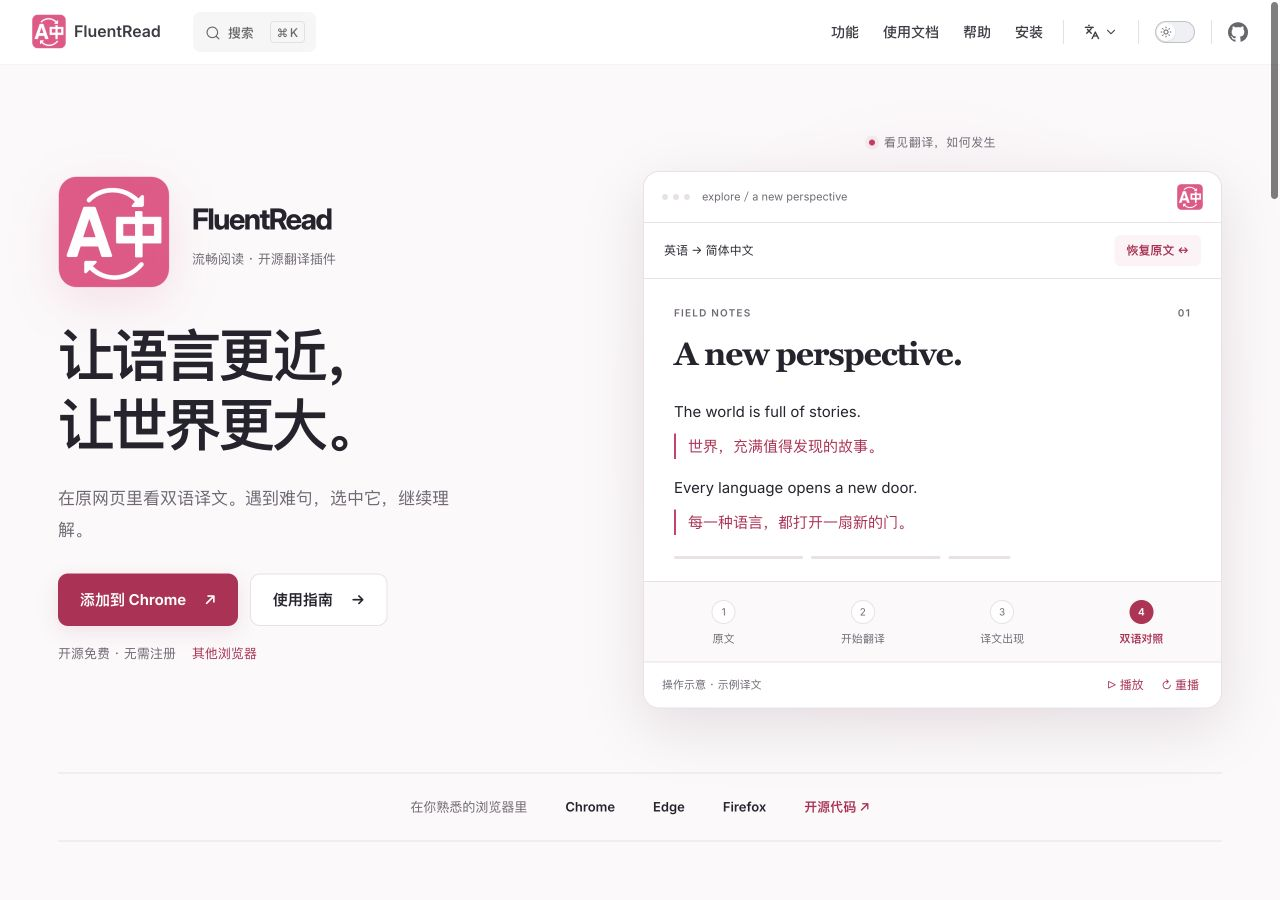
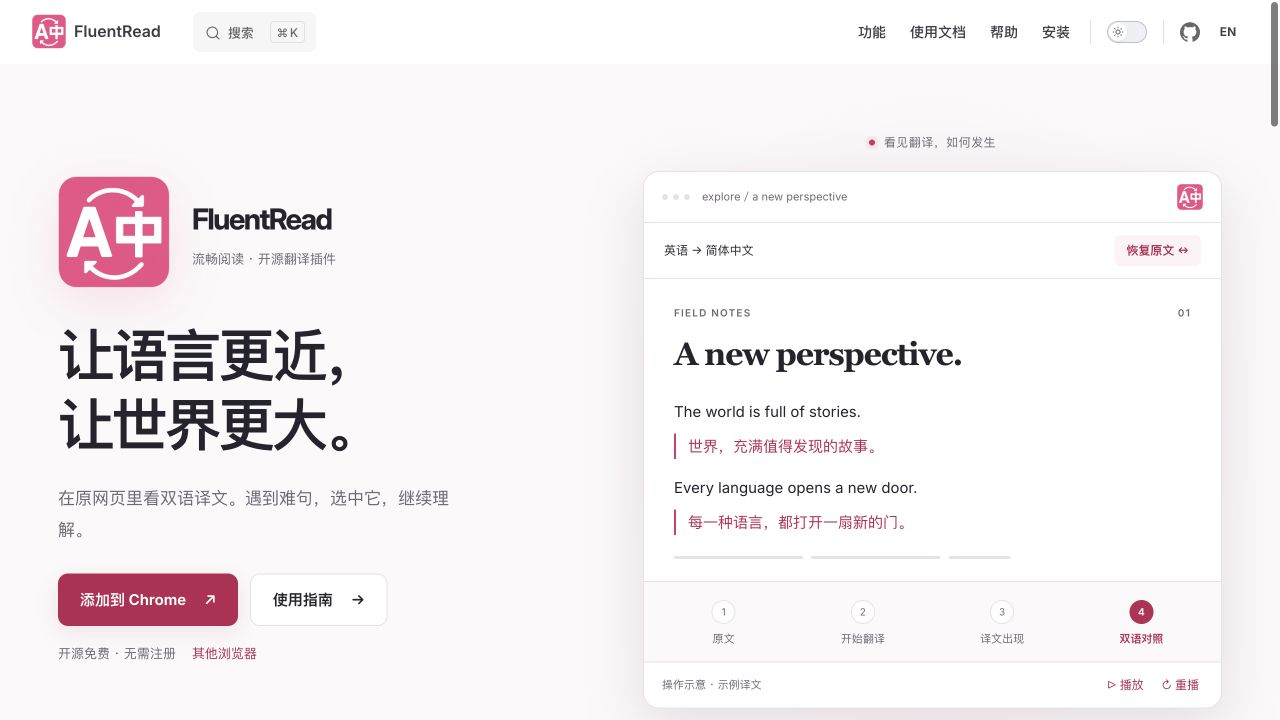
Verify responsive guides and stabilize language deep links

diff --git a/docs/.vitepress/theme/GuideLayout.vue b/docs/.vitepress/theme/GuideLayout.vue
@@ -1,8 +1,19 @@
 <script setup lang="ts">
 import DefaultTheme from 'vitepress/theme'
-import { useRoute } from 'vitepress'
-import { nextTick, onBeforeUnmount, onMounted, watch } from 'vue'
+import { useData, useRoute, withBase } from 'vitepress'
+import { computed, nextTick, onBeforeUnmount, onMounted, watch } from 'vue'
 const route = useRoute()
+const { lang, page } = useData()
+const english = computed(() => lang.value.startsWith('en'))
+// Headings differ between languages. Keep the corresponding page, without carrying its hash.
+const languageLink = computed(() => {
+  if (page.value.isNotFound) return withBase(english.value ? '/' : '/en/')
+  const path = page.value.relativePath
+    .replace(/^en\//, '')
+    .replace(/(^|\/)index\.md$/, '$1')
+    .replace(/\.md$/, '')
+  return withBase((english.value ? '/' : '/en/') + path)
+})
 let revision = 0
 async function revealAnchor() {
   const current = ++revision
@@ -40,4 +51,17 @@ onBeforeUnmount(() => {
   window.removeEventListener('hashchange', revealAnchor)
 })
 </script>
-<template><DefaultTheme.Layout /></template>
+<template>
+  <DefaultTheme.Layout>
+    <template #nav-bar-content-after>
+      <a
+        class="bv-language"
+        :href="languageLink"
+        :aria-label="english ? '切换到简体中文' : 'Switch to English'"
+        :hreflang="english ? 'zh-CN' : 'en'"
+      >
+        {{ english ? '中文' : 'EN' }}
+      </a>
+    </template>
+  </DefaultTheme.Layout>
+</template>

diff --git a/docs/.vitepress/config.ts b/docs/.vitepress/config.ts
@@ -172,14 +172,15 @@ export default defineConfig({
     ['link', { rel: 'icon', href: '/brand-icon.webp' }],
   ],
   locales: {
+    // GuideLayout provides a stable page-level switch; translated headings have different hashes.
     root: {
-      label: '简体中文',
+      label: '',
       lang: 'zh-CN',
       title: 'FluentRead',
       themeConfig: theme(),
     },
     en: {
-      label: 'English',
+      label: '',
       lang: 'en',
       title: 'FluentRead',
       description: `${brandTaglines['en-US']} An open-source browser extension for bilingual translation.`,

diff --git a/docs/.vitepress/theme/custom.css b/docs/.vitepress/theme/custom.css
@@ -35,6 +35,25 @@
   width: 34px;
   height: 34px;
 }
+.bv-language {
+  display: inline-flex;
+  align-items: center;
+  justify-content: center;
+  min-width: 40px;
+  min-height: 40px;
+  margin-left: 8px;
+  font-size: 12px;
+  font-weight: 650;
+  color: var(--vp-c-text-1);
+  border-radius: 6px;
+}
+.bv-language:hover {
+  color: var(--vp-c-brand-1);
+  background: var(--vp-c-brand-soft);
+}
+.bv-language:focus-visible {
+  outline: 2px solid var(--vp-c-brand-1);
+}
 .bv-site {
   color: var(--fr-ink);
   line-height: 1.75;

diff --git a/docs/reports/brand-visual-docs-20261003/verification.md b/docs/reports/brand-visual-docs-20261003/verification.md
@@ -1,0 +1,21 @@
+# 官网与视觉指南验收
+
+先完成[规划](../../maintainers/brand-visual-docs-plan-20261003.md)，再实施自定义首页、可操作的 HTML/CSS 图解与文档折叠。保留 VitePress 的静态生成、双语路由和本地搜索。正式 A/中品牌图标使用无损 WebP，256px、43,164 字节；可见像素与品牌源文件一致。
+
+## 已验证
+
+- `pnpm docs:typecheck`、`pnpm docs:build`、`pnpm docs:check` 通过。静态检查覆盖 75 个页面、3,778 个内部链接、714 个链接锚点、112 个图片引用。增加正式图标、首页示例、文档任务入口、默认折叠、提示词占位符与对应页面语言切换的检查。
+- 以 `08b9498c8057c4d3ee89651630b27585946bb4b1` 为集成基线，60 篇已调整指南的 468 个原有 ID 全部保留，见 `legacy-anchors.json`。
+- 后台 Codex 浏览器检查中文主要任务页、英文入口与主要指南，在 320、390、768、1280px 下检查布局；最终首页和文档入口均无横向溢出。详见 `browser-summary.json`，其中保留发现问题与修复后的记录。
+- 翻译示例自动切换；手动步骤会暂停；播放与暂停按钮可用。图片、圈选图解能展示对应结果；句法片段支持点击和方向键。
+- 手机目录、本地搜索、深浅主题可用。高级内容初始关闭；直接访问折叠区旧链接会展开，并为固定顶栏保留留白。
+- 直接加载章节链接后，中英文切换到同一篇指南，不携带另一种语言的章节名。全新验证页没有控制台警告或错误。
+- 保留最新主分支的文档工作区、下载和句法说明；过时的文档工作区截图已从操作指南移除，使用当前流程图解。
+
+## 范围
+
+网页演示使用明确标注的本地示例，不发送翻译请求，不验证在线服务的翻译质量。没有运行扩展全量回归或测试真实移动设备。减少动态效果、视口外与页面隐藏时停表以及卸载清理已按实现审查；没有更改用户系统的减少动态效果偏好进行实机验证。
+
+本地复用主检出的依赖目录，不代表全新依赖安装。隔离 worktree 的根 WXT 配置未生成，文档构建会提示 `.wxt/tsconfig.json` 缺失；独立文档类型检查和静态构建成功。GitHub 工作流将另行进行全新依赖安装、文档构建、类型与资源检查。
+
+本次参考陪读蛙的“先展示操作，再提供指南”信息组织思路，以及用户提供的句子角色标注形式；组件和样式按 FluentRead 的 Vue/TypeScript 架构独立实现，没有修改参考仓库或引入跨仓库依赖。
